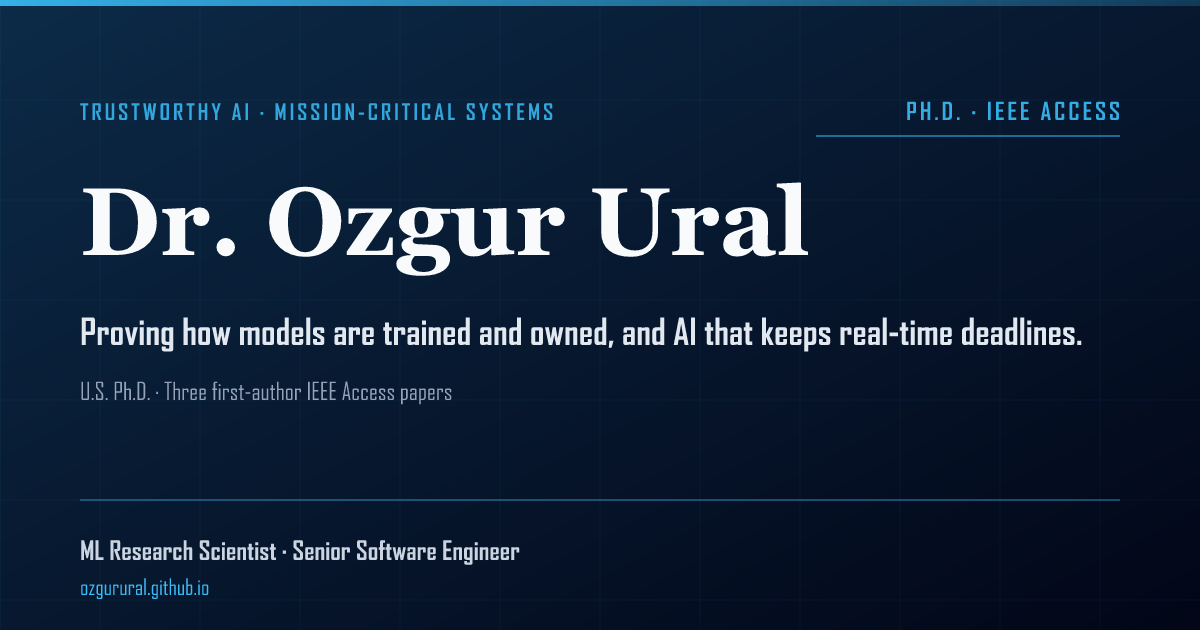
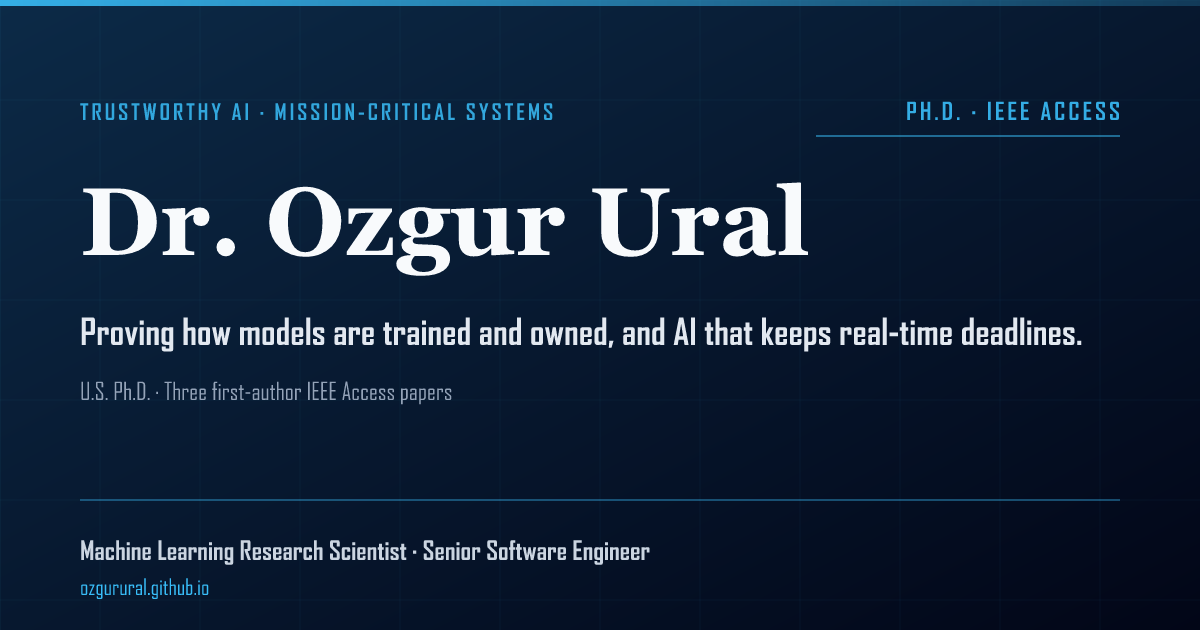
site: the full title in the bio and on the share card
The owner objected to being shortened to "ML Research Scientist" (memory,
2026-10-06); spelled out as Machine Learning Research Scientist.

Changed region(s): [[0.0617, 0.8444, 0.555, 0.9048]]

diff --git a/scripts/build-site-og.js b/scripts/build-site-og.js
@@ -20,7 +20,7 @@ const CARD = {
   title: "Dr. Ozgur Ural",
   sub: "Proving how models are trained and owned, and AI that keeps real-time deadlines.",
   tagline: "U.S. Ph.D. · Three first-author IEEE Access papers",
-  role: "ML Research Scientist · Senior Software Engineer",
+  role: "Machine Learning Research Scientist · Senior Software Engineer",
   badge: "PH.D. · IEEE ACCESS",
 };
 
